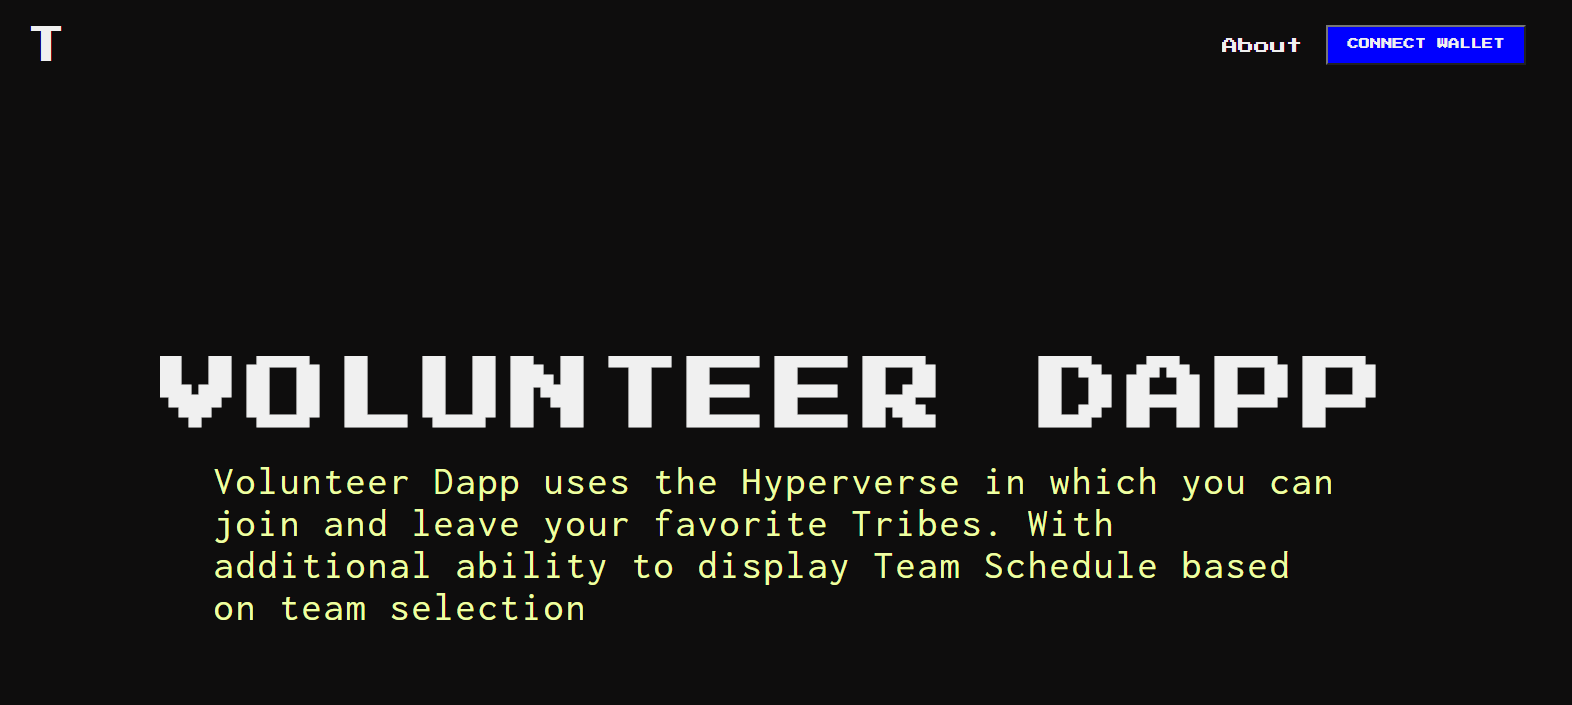
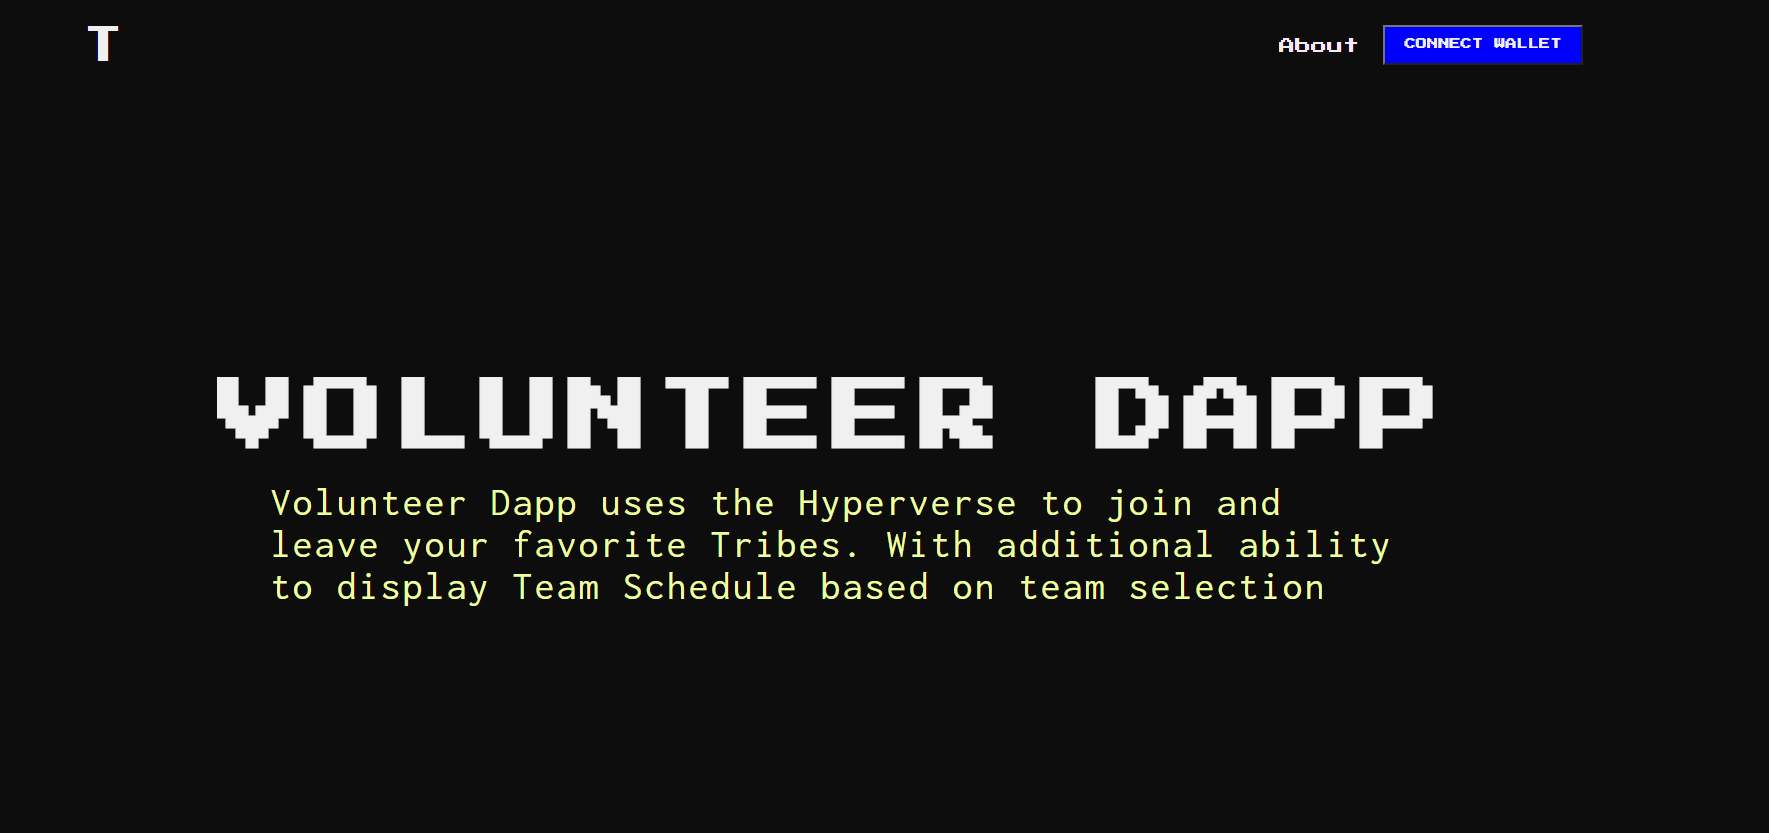
added the video walkthrough

Changed region(s): [[0.0935, 0.4369, 0.8728, 0.905], [0.7169, 0.0312, 0.9663, 0.0936], [0.0, 0.0312, 0.0623, 0.0936]]

diff --git a/apps/flow/tribes/pages/index.tsx b/apps/flow/tribes/pages/index.tsx
@@ -44,8 +44,7 @@ const Home: NextPage = () => {
 					<div className={styles.header}>
 						<h1>Volunteer Dapp</h1>
 						<p>
-							Volunteer Dapp uses the Hyperverse in which you can join and leave your
-							favorite Tribes. With additional ability to display Team Schedule based on team selection
+						Volunteer Dapp uses the Hyperverse to join and leave your favorite Tribes. With additional ability to display Team Schedule based on team selection
 						</p>
 						{flow?.loggedIn ? (
 							!currentTribe ? (

diff --git a/README.md b/README.md
@@ -1,8 +1,4 @@
-# Preview
-
-Bruce
-
-# tribes-Flow
+# Project Description
 
 We explored how to use the Hyperverse composable tooling that allows JavaScript developers to interact with the Blockchain easily. During our exploration, we had two primary goals. 
 
@@ -13,7 +9,19 @@ Volunteer Dapp will develop a fundraising application that will allow users to j
 
 # User Flow
 
-You will see the following site details once you follow the system installation requirements below. 
+In the application, you will have the following capabilities.
+
+- Ability to see all volunteering organizations
+- Ability to select the organization
+- See the schedule of all games associated with that organization.
+
+# User Flow Video
+
+Review [Walkthrough Video](https://www.canva.com/design/DAEwR7q3xVM/uYQze1heuKgIhBCIUB7lIg/view?utm_content=DAEwR7q3xVM&utm_campaign=designshare&utm_medium=link&utm_source=recording_view) demonstrating how the application works. 
+
+# Future Roadmap
+
+<img src="https://github.com/canedy/hyperverse-mono/blob/main/readme%20images/Roadmap.PNG?raw=true" alt="Project Roadmap"/>
 
 # 💻 System Requirements
 
@@ -50,7 +58,7 @@ To run this project locally:
 ## 🏁 Testing & Running the Application
 
 If you were successful following the Installation application, you should be greeted with the tribes home page that looks like this:
-<img src="./apps/ethereum/tribes/public/tribes-home.png" alt="tribes"/>
+<img src="https://github.com/canedy/hyperverse-mono/blob/main/readme%20images/index.PNG?raw=true" alt="Volunteer Dapp"/>
 
 ### Prerequisities
 
